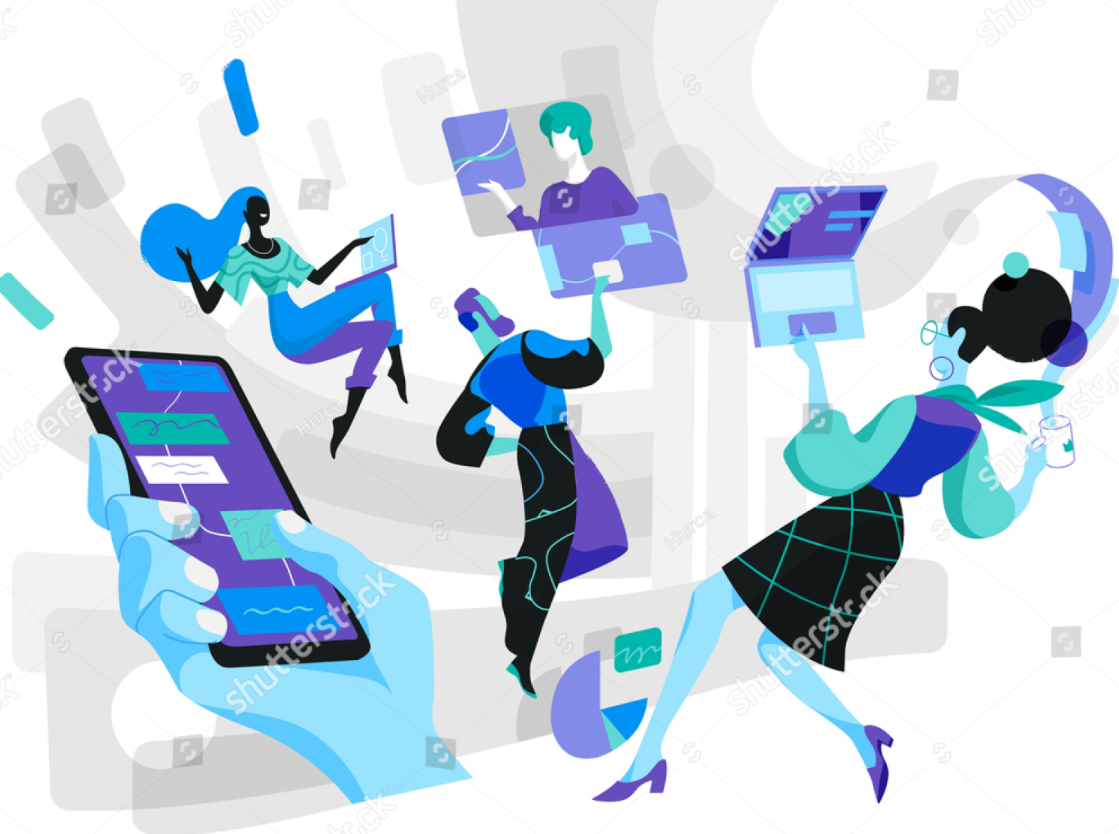
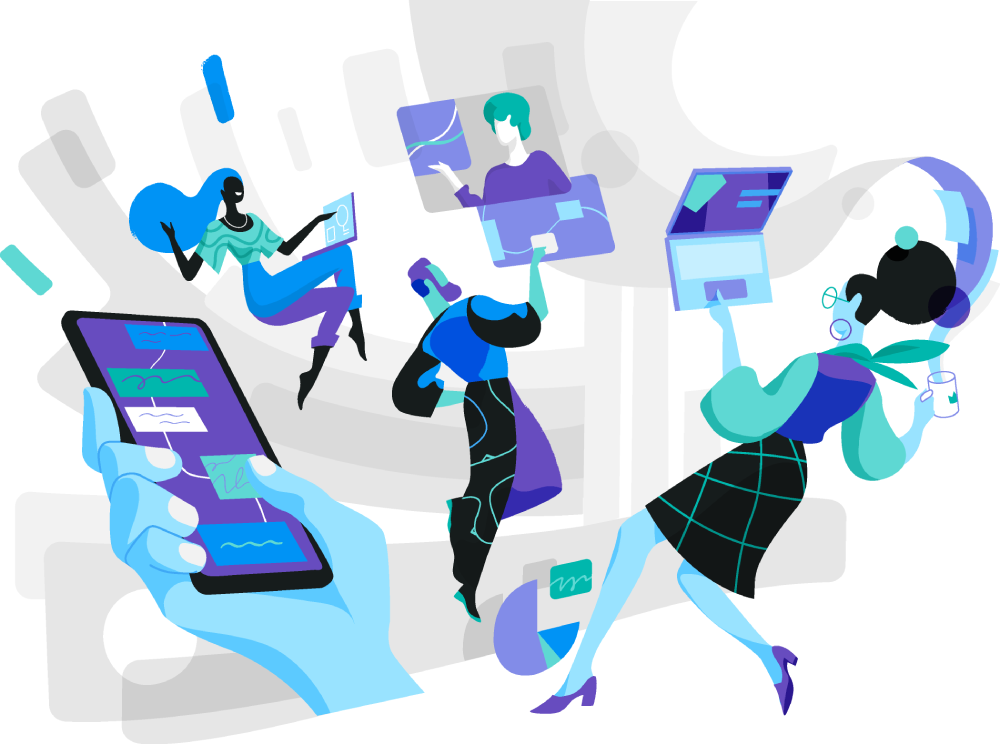
* updated images * precaching images

diff --git a/lib/screens/pre_main_screen/intro_screen2.dart b/lib/screens/pre_main_screen/intro_screen2.dart
@@ -22,6 +22,10 @@ class _IntroScreen2State extends State<IntroScreen2> {
   final EdgeInsets marginTitle =
       const EdgeInsets.only(top: 50.0, bottom: 30.0, left: 20.0, right: 20.0);
 
+  final Image image1 = Image.asset( 'images/intro1_blue.jpg', height: 180);
+  final Image image3 = Image.asset( 'images/intro3.png', height: 220);
+  final Image image4 = Image.asset( 'images/intro4.png');
+
   YoutubePlayerController _youtubePlayerController = YoutubePlayerController(
     initialVideoId: 'ZPMNmZjdgz0',
     params: YoutubePlayerParams(
@@ -30,6 +34,48 @@ class _IntroScreen2State extends State<IntroScreen2> {
       endAt: Duration(seconds: 195),
     ),
   );
+
+  @override
+  void initState() {
+    super.initState();
+    precacheImage(image1.image, context);
+    precacheImage(image3.image, context);
+    precacheImage(image4.image, context);
+  }
+
+  @override
+  Widget build(BuildContext context) {
+    return IntroSlider(
+      slides: getSlides(),
+      onDonePress: () => onDone(context),
+      onSkipPress: () => navigateToNextScreen(context),
+      backgroundColorAllSlides: kColorPrimary,
+    );
+  }
+
+  @override
+  void dispose() {
+    _youtubePlayerController.close();
+    super.dispose();
+  }
+
+  void onDone(BuildContext context) async {
+    final prefs = await SharedPreferences.getInstance();
+    prefs.setBool(kLocalStorageIntroWatched, true);
+    navigateToNextScreen(context);
+  }
+
+  void navigateToNextScreen(BuildContext context) {
+    bool isDataLoading = Provider.of<AppState>(context, listen: false).isDataLoading;
+    bool isUserLoggedIn = Provider.of<AppState>(context, listen: false).isUserLoggedIn;
+    if (!isUserLoggedIn) {
+      Provider.of<AppState>(context, listen: false).currentRoutePath = LoginScreenPath();
+    } else if (!isDataLoading) {
+      Provider.of<AppState>(context, listen: false).currentRoutePath = NexthHomePath();
+    } else {
+      Provider.of<AppState>(context, listen: false).currentRoutePath = LoadingScreen2Path();
+    }
+  }
 
   List<Slide> getSlides() {
     return [
@@ -41,12 +87,12 @@ class _IntroScreen2State extends State<IntroScreen2> {
         ),
         marginTitle: marginTitle,
         description:
-            "Here you will find news on events, tech and other things that help to advance our society into a brighter age...",
+        "Here you will find news on events, tech and other things that help to advance our society into a brighter age...",
         centerWidget: Padding(
           padding: const EdgeInsets.symmetric(horizontal: 8.0),
           child: ClipRRect(
             borderRadius: BorderRadius.all(Radius.elliptical(4000, 1200)),
-            child: Image.asset( 'images/intro4.png',),
+            child: image4,
           ),
         ),
         // pathImage: 'images/intro2.png',
@@ -77,7 +123,7 @@ class _IntroScreen2State extends State<IntroScreen2> {
         marginTitle: marginTitle,
         widgetDescription: Text(
           "The numerous challenges of today make it easy to overlook that we are also living in times that offer enormous possibilities for our future."
-          "\n\nGoal of this project is to highlight the progress that our society makes everyday - a progress enabled by millions of people around the globe.",
+              "\n\nGoal of this project is to highlight the progress that our society makes everyday - a progress enabled by millions of people around the globe.",
 
 
           // "Most of us are aware of the numerous challenges of today and the decades to come. "
@@ -95,7 +141,7 @@ class _IntroScreen2State extends State<IntroScreen2> {
           child: ClipRRect(
             borderRadius: BorderRadius.circular(20),
             //borderRadius: BorderRadius.all(Radius.elliptical(300, 50)),
-            child: Image.asset( 'images/intro1_blue.jpg', height: 180,),
+            child: image1,
           ),
         ),
         backgroundColor: kColorPrimary,
@@ -134,45 +180,11 @@ class _IntroScreen2State extends State<IntroScreen2> {
           child: ClipRRect(
             borderRadius: BorderRadius.circular(20),
             //borderRadius: BorderRadius.all(Radius.elliptical(300, 50)),
-            child: Image.asset( 'images/intro3.png', height: 220,),
+            child: image3,
           ),
         ),
         backgroundColor: kColorPrimary,
       ),
     ];
-  }
-
-  @override
-  Widget build(BuildContext context) {
-    return IntroSlider(
-      slides: getSlides(),
-      onDonePress: () => onDone(context),
-      onSkipPress: () => navigateToNextScreen(context),
-      backgroundColorAllSlides: kColorPrimary,
-    );
-  }
-
-  @override
-  void dispose() {
-    _youtubePlayerController.close();
-    super.dispose();
-  }
-
-  void onDone(BuildContext context) async {
-    final prefs = await SharedPreferences.getInstance();
-    prefs.setBool(kLocalStorageIntroWatched, true);
-    navigateToNextScreen(context);
-  }
-
-  void navigateToNextScreen(BuildContext context) {
-    bool isDataLoading = Provider.of<AppState>(context, listen: false).isDataLoading;
-    bool isUserLoggedIn = Provider.of<AppState>(context, listen: false).isUserLoggedIn;
-    if (!isUserLoggedIn) {
-      Provider.of<AppState>(context, listen: false).currentRoutePath = LoginScreenPath();
-    } else if (!isDataLoading) {
-      Provider.of<AppState>(context, listen: false).currentRoutePath = NexthHomePath();
-    } else {
-      Provider.of<AppState>(context, listen: false).currentRoutePath = LoadingScreen2Path();
-    }
   }
 }

diff --git a/lib/screens/pre_main_screen/intro_screen.dart b/lib/screens/pre_main_screen/intro_screen.dart
@@ -17,7 +17,7 @@ class IntroScreen extends StatelessWidget {
           "Goal of this project is to highlight the progress of our society that is made possible by millions of people around the globe. "
           "Even though it seems unlikely at the moment - there is a chance for our society to advance into an utopian-like civilization. One, in which it will not be so relevant anymore in which nation you are born or which gender you are of. In which access food, energy, transportation, information, and shelter are a fundamental right. "
           "For more information why this is a possibility, check out the report by the think tank: RethinkX.",
-      image: Image.asset('images/intro2.png'),
+      image: Image.asset('images/intro4.png'),
     ),
     PageViewModel(
       title: "Community driven",
